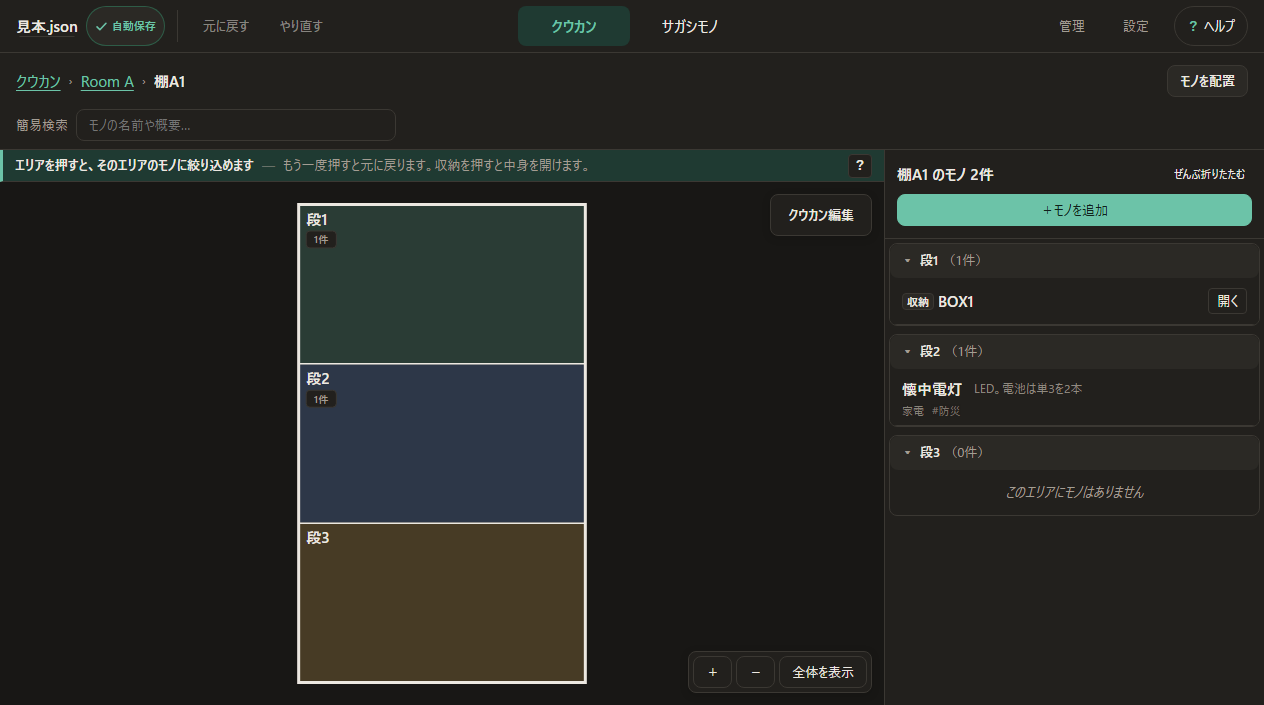
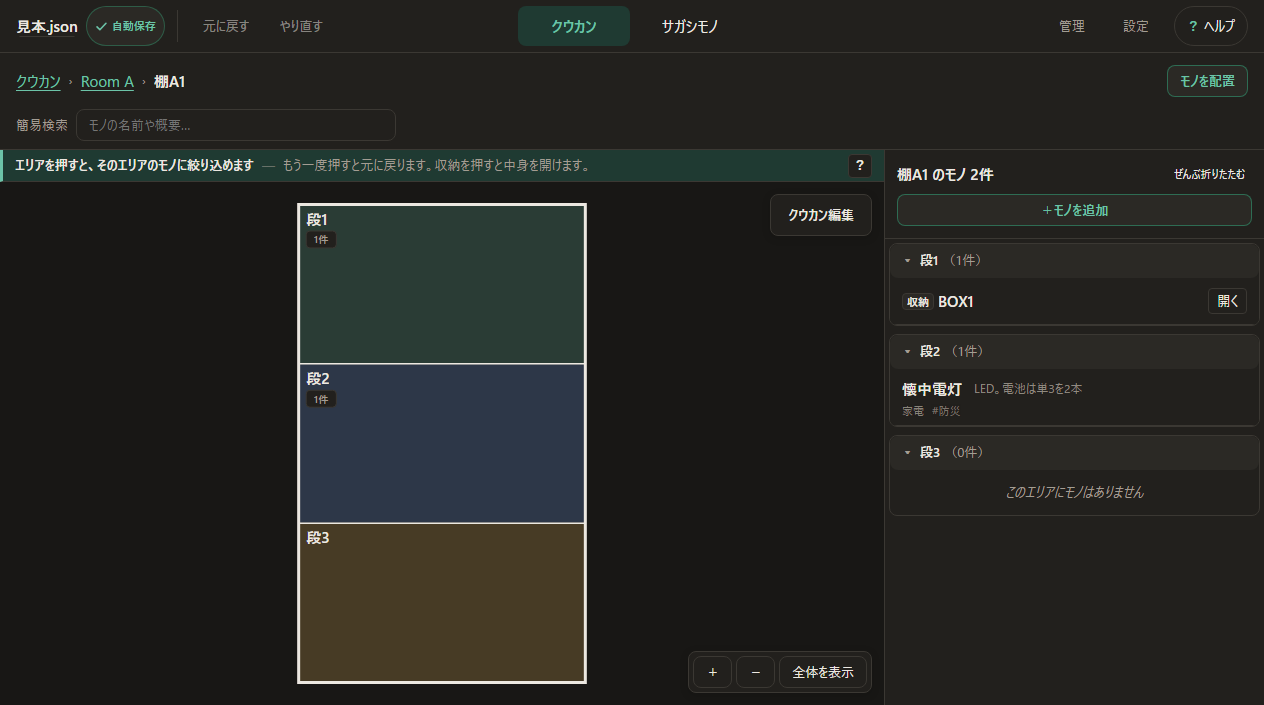
fix(ui): adopt option 1-A link style for kuukan list and unify outline accent buttons in view screen

Changed region(s): [[0.7097, 0.2496, 1.0, 0.3433], [0.9256, 0.0936, 0.9873, 0.1248]]

diff --git a/src/ui/screens/KuukanScreen.svelte b/src/ui/screens/KuukanScreen.svelte
@@ -274,18 +274,7 @@
         {#if editingKuukanId !== kuukan.id}
           <button
             type="button"
-            class="small primary open-kuukan-btn"
-            title="このクウカンを開いてモノを見たり追加したりします"
-            onclick={(e) => {
-              e.stopPropagation();
-              app.openView(kuukan.id);
-            }}
-          >
-            開く
-          </button>
-          <button
-            type="button"
-            class="small ghost edit-shape-btn"
+            class="small"
             title="クウカンのかたちや仕切り、目印を編集します"
             onclick={(e) => {
               e.stopPropagation();
@@ -833,11 +822,18 @@
     cursor: pointer;
     text-align: left;
     border-radius: var(--radius-small);
+    text-decoration: underline;
+    text-decoration-color: transparent;
+    text-underline-offset: 4px;
+    transition: color 0.15s ease, text-decoration-color 0.15s ease;
   }
 
-  .kuukan-name-btn:hover {
+  .kuukan-name-btn:hover,
+  .kuukan-card:hover .kuukan-name-btn {
     background: transparent;
+    color: var(--accent);
     text-decoration: underline;
+    text-decoration-color: var(--accent);
   }
 
   .inline-input {

diff --git a/src/ui/view/ItemList.svelte b/src/ui/view/ItemList.svelte
@@ -322,7 +322,7 @@
         {:else}
           <button
             type="button"
-            class="primary small add-btn"
+            class="small add-btn"
             onclick={() => {
               isAdding = true;
               newItemName = '';
@@ -698,6 +698,17 @@
 
   .add-btn {
     width: 100%;
+    color: var(--accent);
+    background: var(--surface-2);
+    border: 1px solid rgba(52, 211, 153, 0.4);
+    font-weight: 600;
+    transition: all 0.15s ease;
+  }
+
+  .add-btn:hover {
+    background: var(--surface-3);
+    border-color: var(--accent);
+    color: var(--accent);
   }
 
   .add-form {

diff --git a/src/ui/screens/ViewScreen.svelte b/src/ui/screens/ViewScreen.svelte
@@ -427,17 +427,19 @@
 
   .placing-btn {
     background: var(--surface-2);
-    border: 1px solid var(--border);
-    color: var(--text);
+    border: 1px solid rgba(52, 211, 153, 0.4);
+    color: var(--accent);
     display: inline-flex;
     align-items: center;
     gap: var(--space-1);
-    font-weight: 500;
+    font-weight: 600;
+    transition: all 0.15s ease;
   }
 
   .placing-btn:hover {
     background: var(--surface-3);
-    border-color: var(--border-strong, var(--border));
+    border-color: var(--accent);
+    color: var(--accent);
   }
 
   @media (max-width: 767.98px) {
